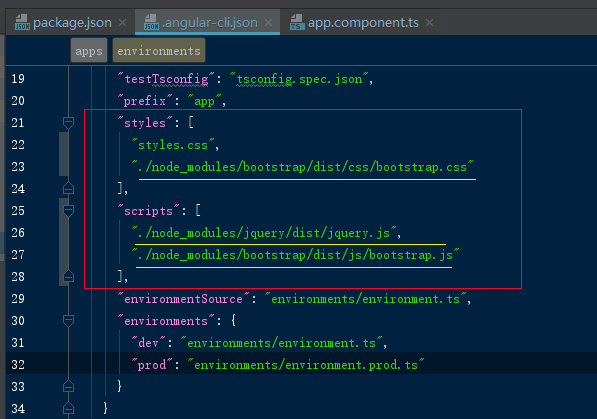
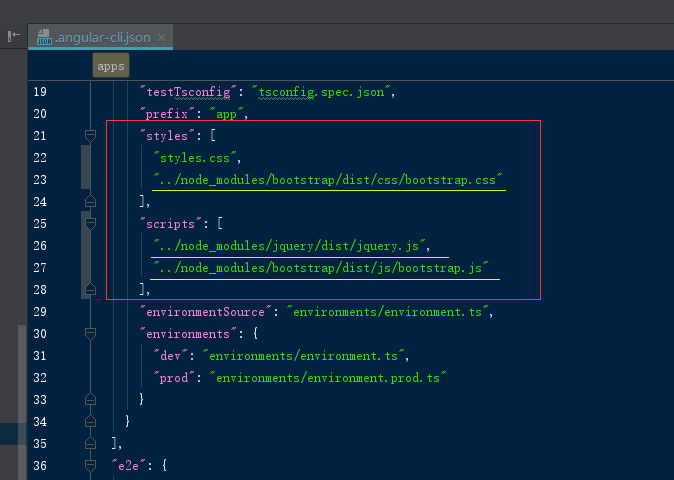
Site updated: 2017-04-22 12:20:20

Changed region(s): [[0.0, 0.0, 1.0, 1.0], [0.8442, 0.2482, 0.8744, 0.2792]]

diff --git a/2017/04/21/angualr-import-lib/index.html b/2017/04/21/angualr-import-lib/index.html
@@ -100,7 +100,7 @@
 <meta property="og:image" content="http://yoursite.com/img/ng_import_lib_01.jpg">
 <meta property="og:image" content="http://yoursite.com/img/ng_import_lib_02.jpg">
 <meta property="og:image" content="http://yoursite.com/img/ng_import_lib_03.jpg">
-<meta property="og:updated_time" content="2017-04-21T12:16:56.335Z">
+<meta property="og:updated_time" content="2017-04-22T04:18:45.800Z">
 <meta name="twitter:card" content="summary">
 <meta name="twitter:title" content="angualr引入第三方库（Jquery、Bootstrap）">
 <meta name="twitter:description" content="场景说明：项目需要使用bootstrap，众所周知bootstrap没有时间日期控件的，需要使用第三方控件，项目使用angular-cli构建的。
@@ -413,10 +413,10 @@
 <h4 id="解决流程（三步）"><a href="#解决流程（三步）" class="headerlink" title="解决流程（三步）"></a>解决流程（三步）</h4><h5 id="1-下载第三方依赖库到本地"><a href="#1-下载第三方依赖库到本地" class="headerlink" title="1.下载第三方依赖库到本地"></a>1.下载第三方依赖库到本地</h5><figure class="highlight bash"><table><tr><td class="gutter"><pre><div class="line">1</div><div class="line">2</div></pre></td><td class="code"><pre><div class="line">npm install jquery --save</div><div class="line">npm install bootstrap --save</div></pre></td></tr></table></figure>
 <a id="more"></a>
 <p>在package.json文件中可以查看新导入的库，’–save’将jquery库记录到package.json文件中。<br><img src="/img/ng_import_lib_01.jpg" alt="package | center"></p>
-<h5 id="2-将库引入到项目中"><a href="#2-将库引入到项目中" class="headerlink" title="2.将库引入到项目中"></a>2.将库引入到项目中</h5><p>在项目node_modules查找新导入库包，复制路径，引入到angular-cli.json文件里。<br><figure class="highlight bash"><table><tr><td class="gutter"><pre><div class="line">1</div><div class="line">2</div><div class="line">3</div><div class="line">4</div><div class="line">5</div><div class="line">6</div><div class="line">7</div><div class="line">8</div><div class="line">9</div></pre></td><td class="code"><pre><div class="line"><span class="string">"styles"</span>: [</div><div class="line">   ........</div><div class="line">   <span class="string">"./node_modules/bootstrap/dist/css/bootstrap.css"</span></div><div class="line"> ],</div><div class="line"><span class="string">"scripts"</span>: [</div><div class="line">.........</div><div class="line">   <span class="string">"./node_modules/jquery/dist/jquery.js"</span>,</div><div class="line">   <span class="string">"./node_modules/bootstrap/dist/js/bootstrap.js"</span></div><div class="line"> ],</div></pre></td></tr></table></figure></p>
+<h5 id="2-将库引入到项目中"><a href="#2-将库引入到项目中" class="headerlink" title="2.将库引入到项目中"></a>2.将库引入到项目中</h5><p>在项目node_modules查找新导入库包，复制路径，引入到angular-cli.json文件里。<br><figure class="highlight bash"><table><tr><td class="gutter"><pre><div class="line">1</div><div class="line">2</div><div class="line">3</div><div class="line">4</div><div class="line">5</div><div class="line">6</div><div class="line">7</div><div class="line">8</div><div class="line">9</div></pre></td><td class="code"><pre><div class="line"><span class="string">"styles"</span>: [</div><div class="line">   ........</div><div class="line">   <span class="string">"../node_modules/bootstrap/dist/css/bootstrap.css"</span></div><div class="line"> ],</div><div class="line"><span class="string">"scripts"</span>: [</div><div class="line">.........</div><div class="line">   <span class="string">"../node_modules/jquery/dist/jquery.js"</span>,</div><div class="line">   <span class="string">"../node_modules/bootstrap/dist/js/bootstrap.js"</span></div><div class="line"> ],</div></pre></td></tr></table></figure></p>
 <p><img src="/img/ng_import_lib_02.jpg" alt="import angular cli | center"></p>
 <h5 id="3-下载类型描述文件"><a href="#3-下载类型描述文件" class="headerlink" title="3.下载类型描述文件"></a>3.下载类型描述文件</h5><p>Angular区别于AngularJS，重构后使用TypeScript编写，第三方库需要引入@types类型描述文件，否则在IDE中会显示语法错误。<br><figure class="highlight bash"><table><tr><td class="gutter"><pre><div class="line">1</div><div class="line">2</div></pre></td><td class="code"><pre><div class="line">npm install @types/jquery --save-dev</div><div class="line">npm install @types/bootstrap --save-dev</div></pre></td></tr></table></figure></p>
-<p>O(∩_∩)O现在可以愉快的使用Jquery了！<br><img src="/img/ng_import_lib_03.jpg" alt="import lib | center"></p>
+<p>O(∩_∩)O现在可以愉快的使用Jquery了！<br><img src="/img/ng_import_lib_03.jpg" alt="import lib | center"><br>（Win10主机 最好“以管理员身份运行”系统！避免权限不足等问题！）</p>
 
       
     </div>

diff --git a/css/main.css b/css/main.css
@@ -1820,7 +1820,7 @@ pre .javascript .function {
   width: 4px;
   height: 4px;
   border-radius: 50%;
-  background: #faabc8;
+  background: #064edf;
 }
 .links-of-blogroll {
   font-size: 13px;
